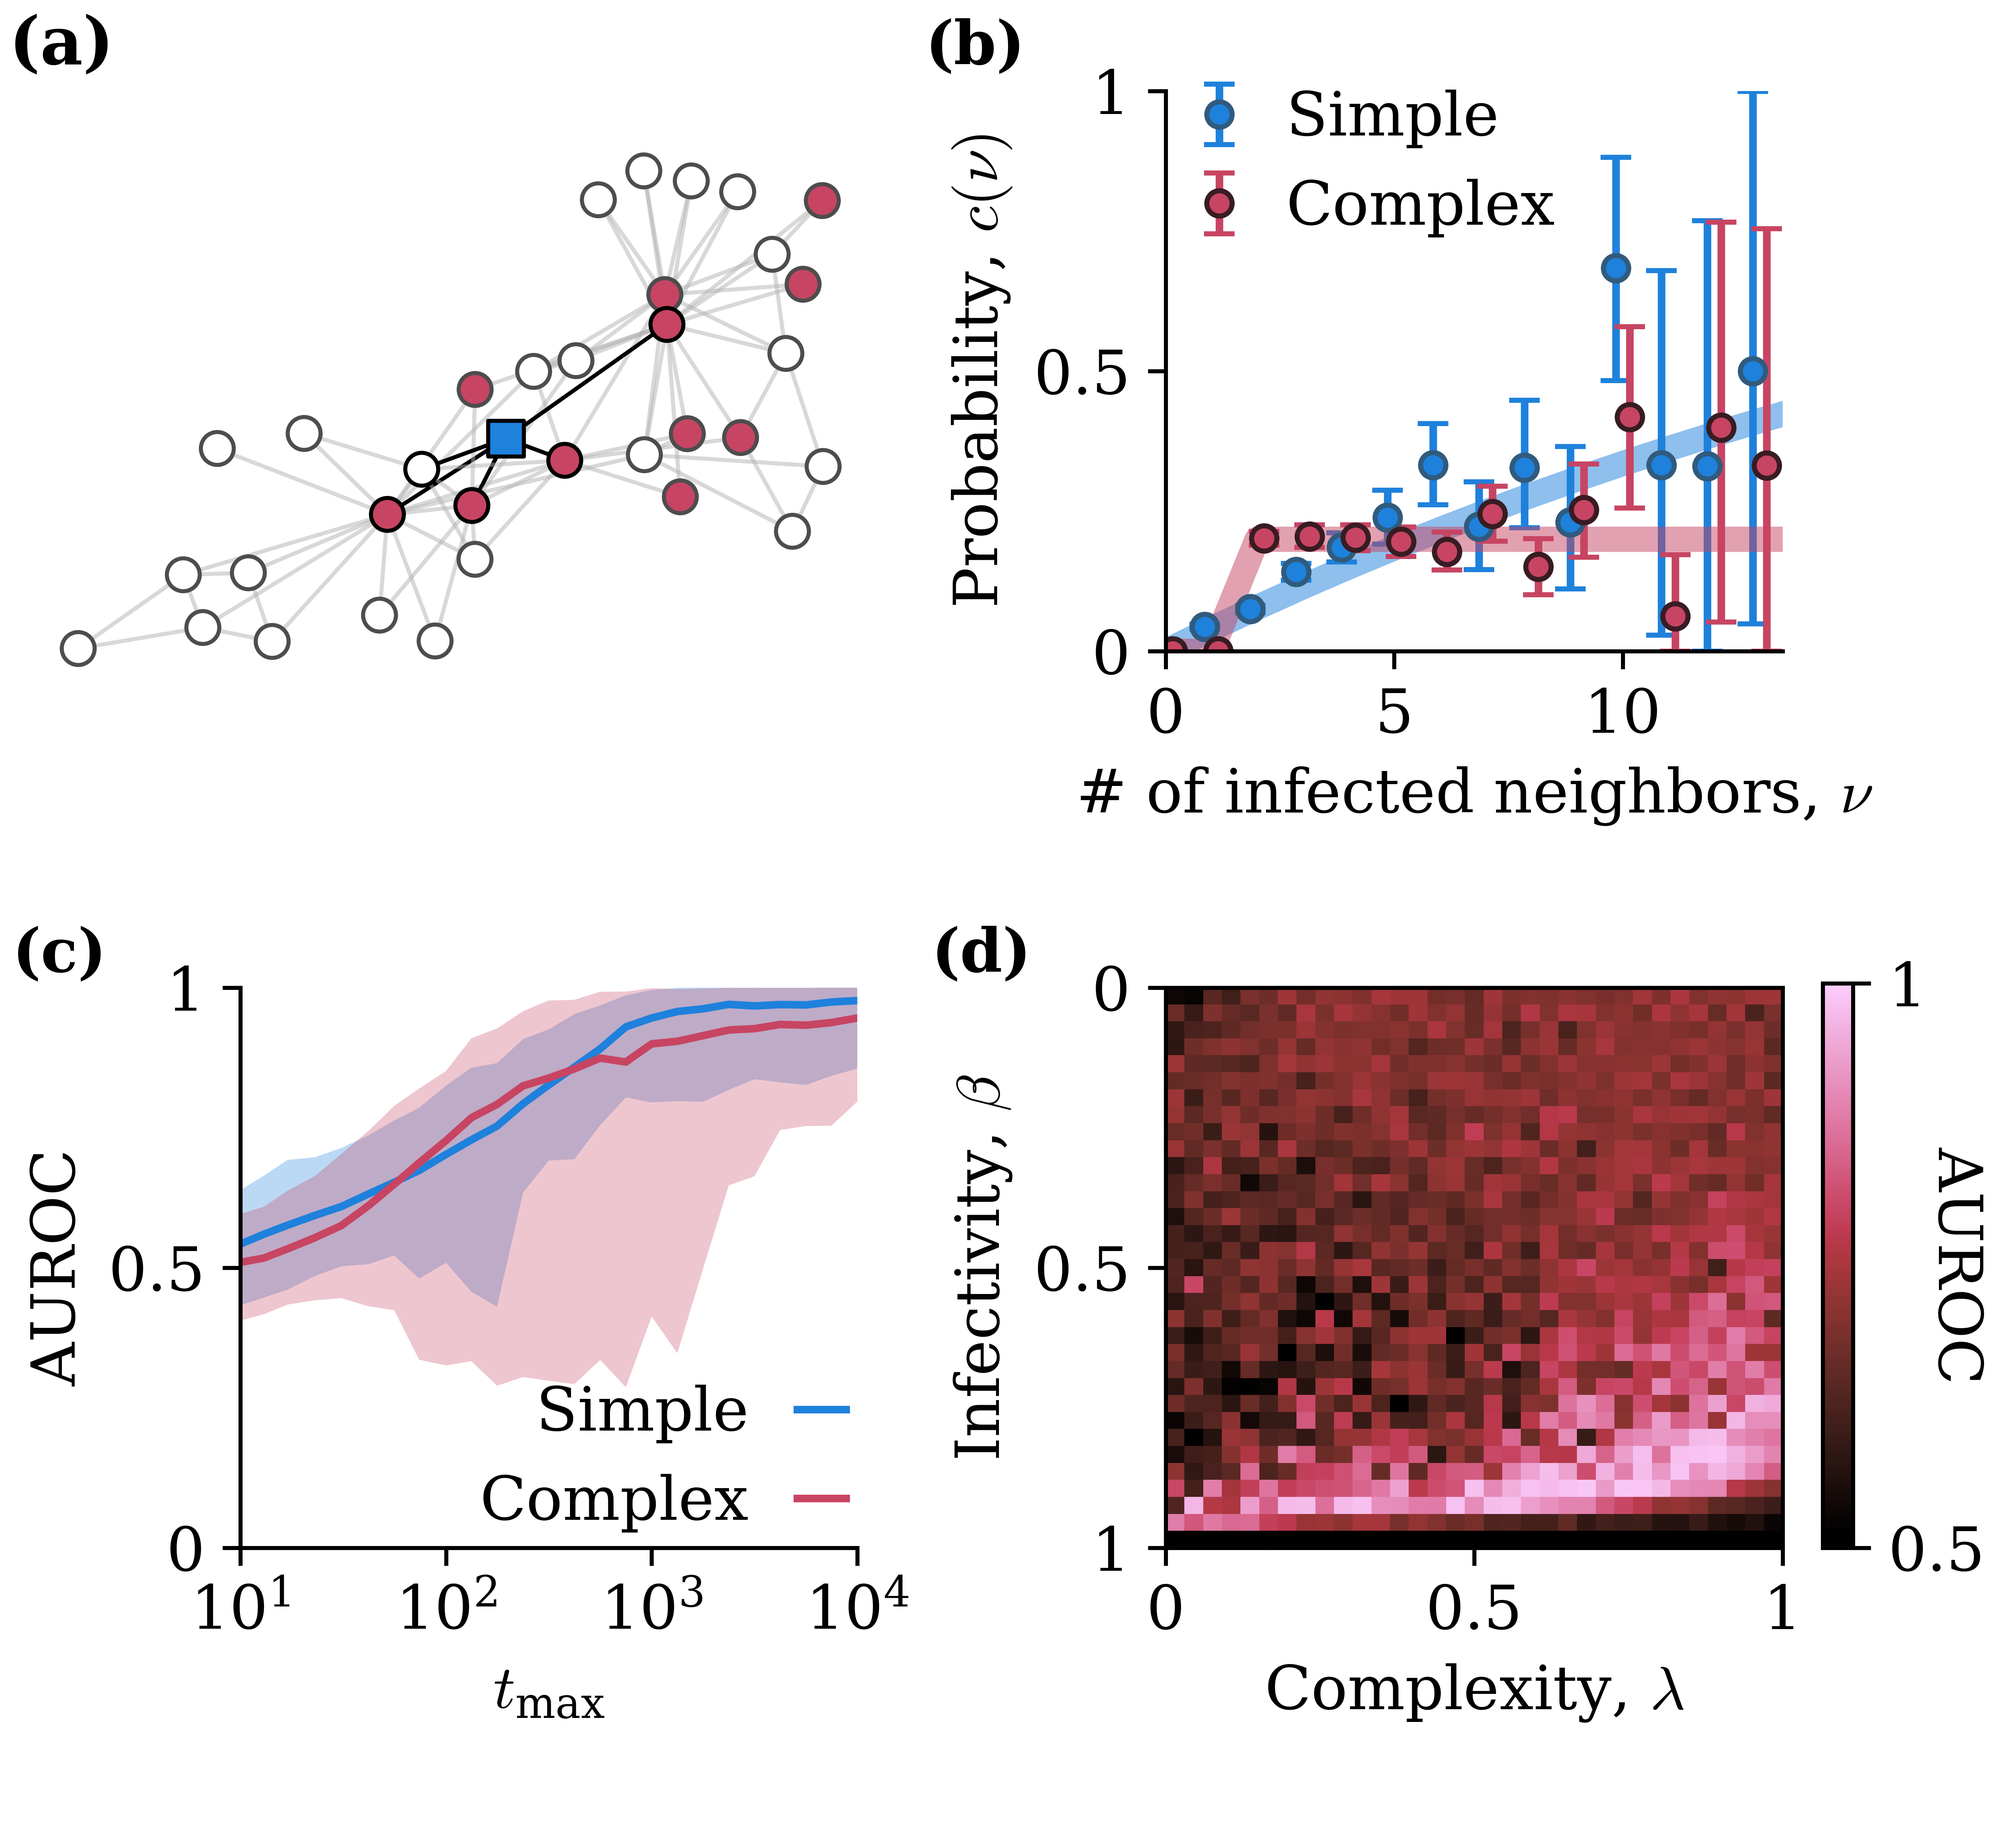
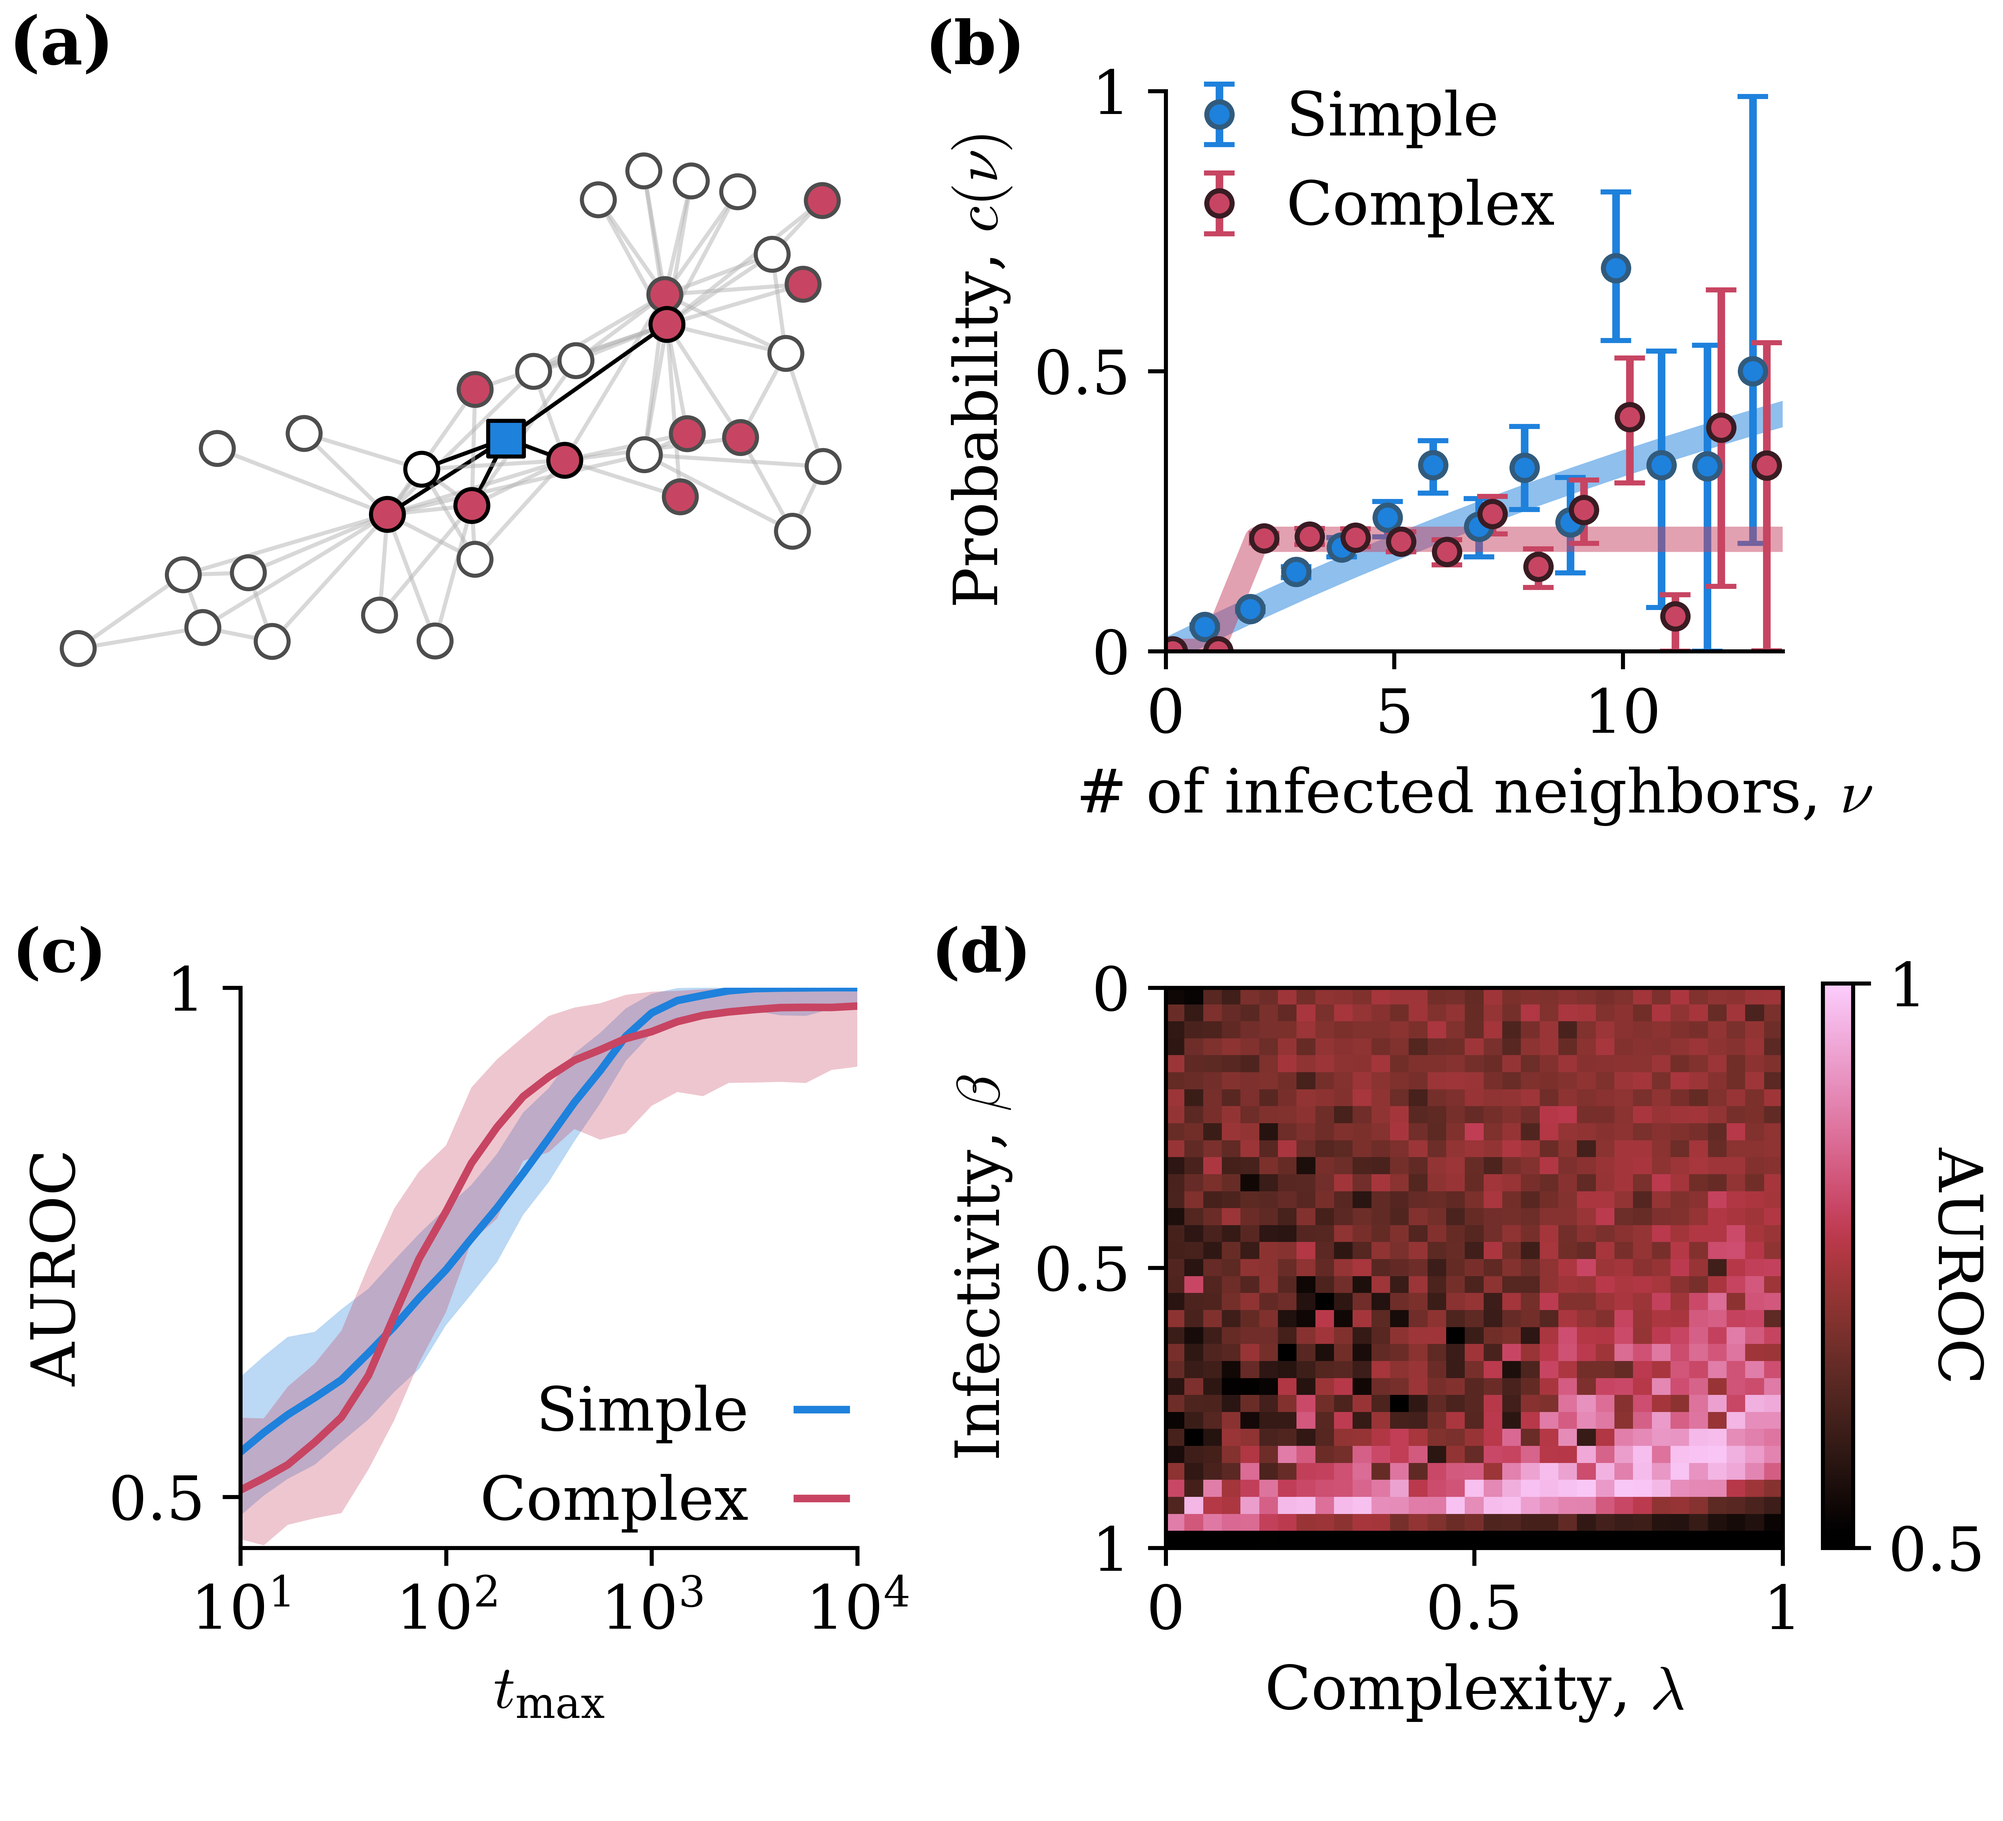
unifed HDI to 80%, switched to median AUROC so that it sits closer to the middle of said hdi

diff --git a/plot_fig1.py b/plot_fig1.py
@@ -140,7 +140,7 @@ ax2.plot(nus, c1, "-", color="C0", lw=5, alpha=0.5)
 
 err_c1 = np.zeros((2, n))
 for i in range(n):
-    interval = az.hdi(c1_samples[:, i], hdi_prob=0.95)
+    interval = az.hdi(c1_samples[:, i], hdi_prob=0.8)
     x, y = interval
     err_c1[0, i] = max(c1_mean[i] - x, 0)
     err_c1[1, i] = max(y - c1_mean[i], 0)
@@ -165,7 +165,7 @@ ax2.plot(nus, c2, "-", color="C1", lw=5, alpha=0.5)
 
 err_c2 = np.zeros((2, n))
 for i in range(n):
-    interval = az.hdi(c2_samples[:, i], alpha=0.05, roundto=4)
+    interval = az.hdi(c2_samples[:, i], hdi_prob=0.8)
     x, y = interval
     err_c2[0, i] = max(c2_mean[i] - x, 0)
     err_c2[1, i] = max(y - c2_mean[i], 0)
@@ -219,12 +219,12 @@ with open("Data/zkc_infer_vs_tmax.json") as file:
 tmax = np.array(data["tmax"], dtype=float)
 performance = np.array(data[measure], dtype=float)
 
-ax3.semilogx(tmax, performance[0].mean(axis=1), color="C0", label="Simple")
-ax3.semilogx(tmax, performance[1].mean(axis=1), color="C1", label="Complex")
-min_idx = np.where((performance[0].mean(axis=1) - performance[1].mean(axis=1)) < 0)[
+ax3.semilogx(tmax, np.median(performance[0], axis=1), color="C0", label="Simple")
+ax3.semilogx(tmax, np.median(performance[1], axis=1), color="C1", label="Complex")
+min_idx = np.where((np.median(performance[0], axis=1) - np.median(performance[1], axis=1)) < 0)[
     0
 ].min()
-max_idx = np.where((performance[0].mean(axis=1) - performance[1].mean(axis=1)) < 0)[
+max_idx = np.where((np.median(performance[0], axis=1) - np.median(performance[1], axis=1)) < 0)[
     0
 ].max()
 print(tmax[min_idx])
@@ -233,7 +233,7 @@ print(tmax[max_idx])
 hdi_a = np.zeros_like(tmax)
 hdi_b = np.zeros_like(tmax)
 for i in range(len(tmax)):
-    interval = az.hdi(performance[0, i], hdi_prob=0.95)
+    interval = az.hdi(performance[0, i], hdi_prob=0.8)
     a, b = interval
     hdi_a[i] = a
     hdi_b[i] = b
@@ -243,7 +243,7 @@ ax3.fill_between(tmax, hdi_a, hdi_b, alpha=0.3, color="C0", edgecolor="none")
 hdi_a = np.zeros_like(tmax)
 hdi_b = np.zeros_like(tmax)
 for i in range(len(tmax)):
-    interval = az.hdi(performance[1, i], hdi_prob=0.95)
+    interval = az.hdi(performance[1, i], hdi_prob=0.8)
     a, b = interval
     hdi_a[i] = a
     hdi_b[i] = b
@@ -261,8 +261,8 @@ ax3.set_xticks(
         r"$\mathregular{10^4}$",
     ],
 )
-ax3.set_ylim([0, 1])
-ax3.set_yticks([0, 0.5, 1], [0, 0.5, 1])
+ax3.set_ylim([0.45, 1])
+ax3.set_yticks([0.5, 1], [0.5, 1])
 
 ax3.legend(
     loc="lower right",
